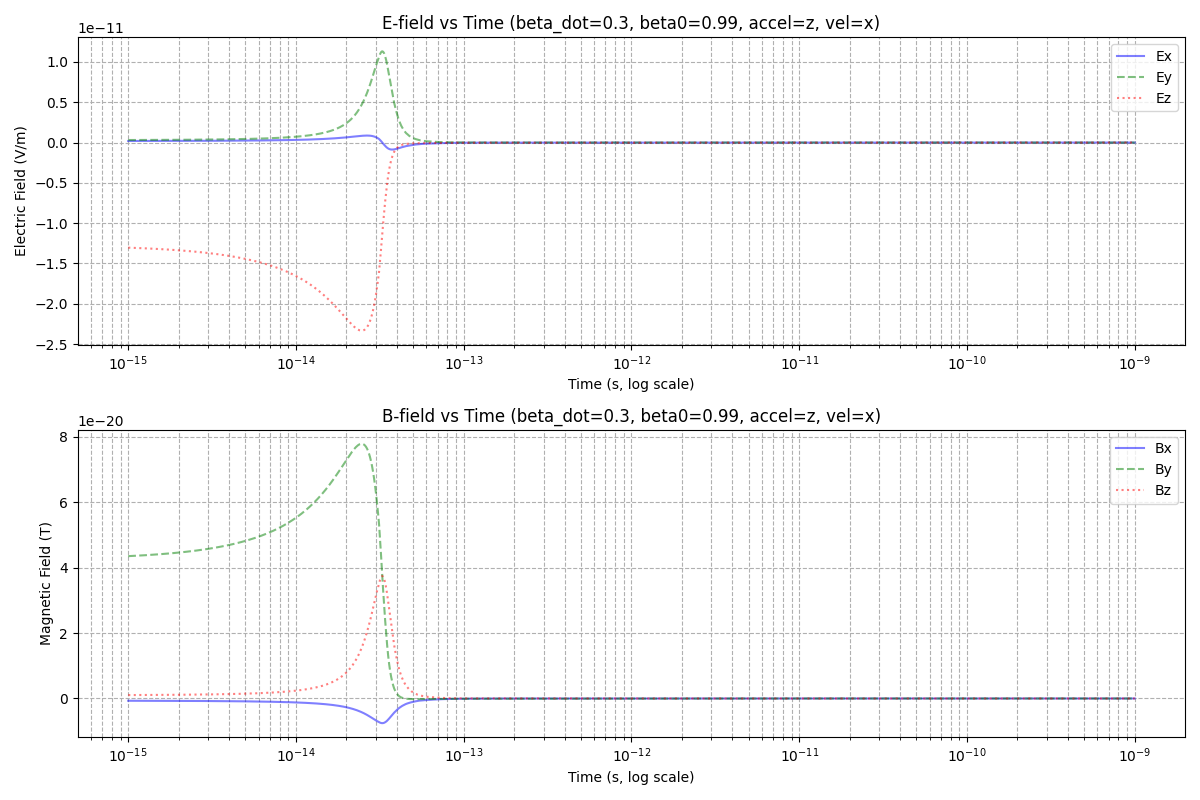
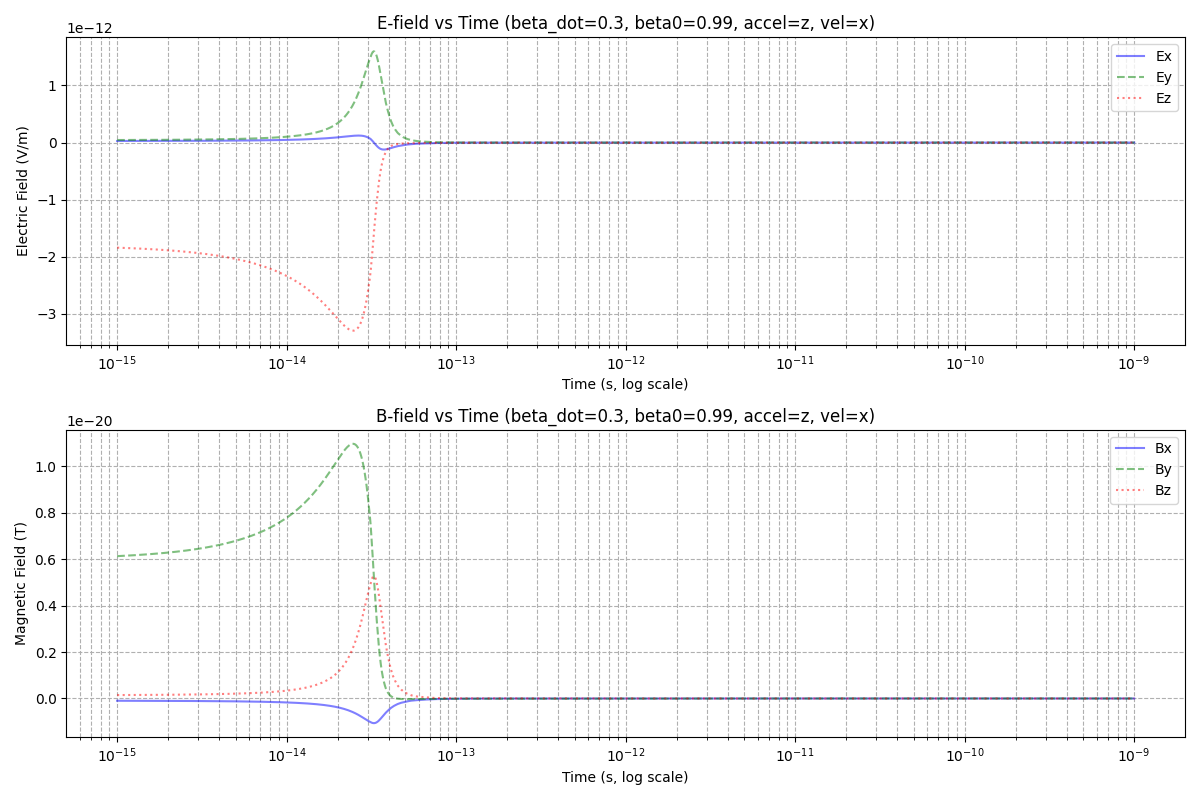
Question_2 for Assignment_2

diff --git a/Assignment_2/Question_2/src/E_M_radiation_calculation.py b/Assignment_2/Question_2/src/E_M_radiation_calculation.py
@@ -4,13 +4,21 @@ from scipy.constants import c, epsilon_0, pi
 
 # Accelerated Charge Class
 class AcceleratedCharge:
-    def __init__(self, q, beta_dot, accel_axis='z', beta0=0.0, vel_axis='x', r0=np.zeros(3)):
+    def __init__(self, q, alpha_proper, accel_axis='z', beta0=0.0, vel_axis='x', r0=np.zeros(3)):
         self.q = q
-        self.beta_dot = beta_dot
+        self.alpha_proper = alpha_proper    
         self.accel_axis = accel_axis
         self.vel_axis = vel_axis
-        self.beta0 = beta0
+        self.beta0 = beta0                 
         self.r0 = np.array(r0, dtype=float)
+        
+        self.gamma0 = 1.0 / np.sqrt(1.0 - self.beta0**2)
+
+        axes = {'x':0, 'y':1, 'z':2}
+        if self.vel_axis == self.accel_axis:
+            self.beta_dot = self.alpha_proper / (self.gamma0**3)
+        else:
+            self.beta_dot = self.alpha_proper / self.gamma0
 
     def position(self, t):
         pos = self.r0.copy()
@@ -33,6 +41,7 @@ class AcceleratedCharge:
         axes = {'x':0, 'y':1, 'z':2}
         vec[axes[self.accel_axis]] = self.beta_dot
         return vec
+
 # Retarded time Calculation
 def retarded_time(charge, r_obs, t_obs, tol=1e-15, maxiter=100):
     tr = t_obs
